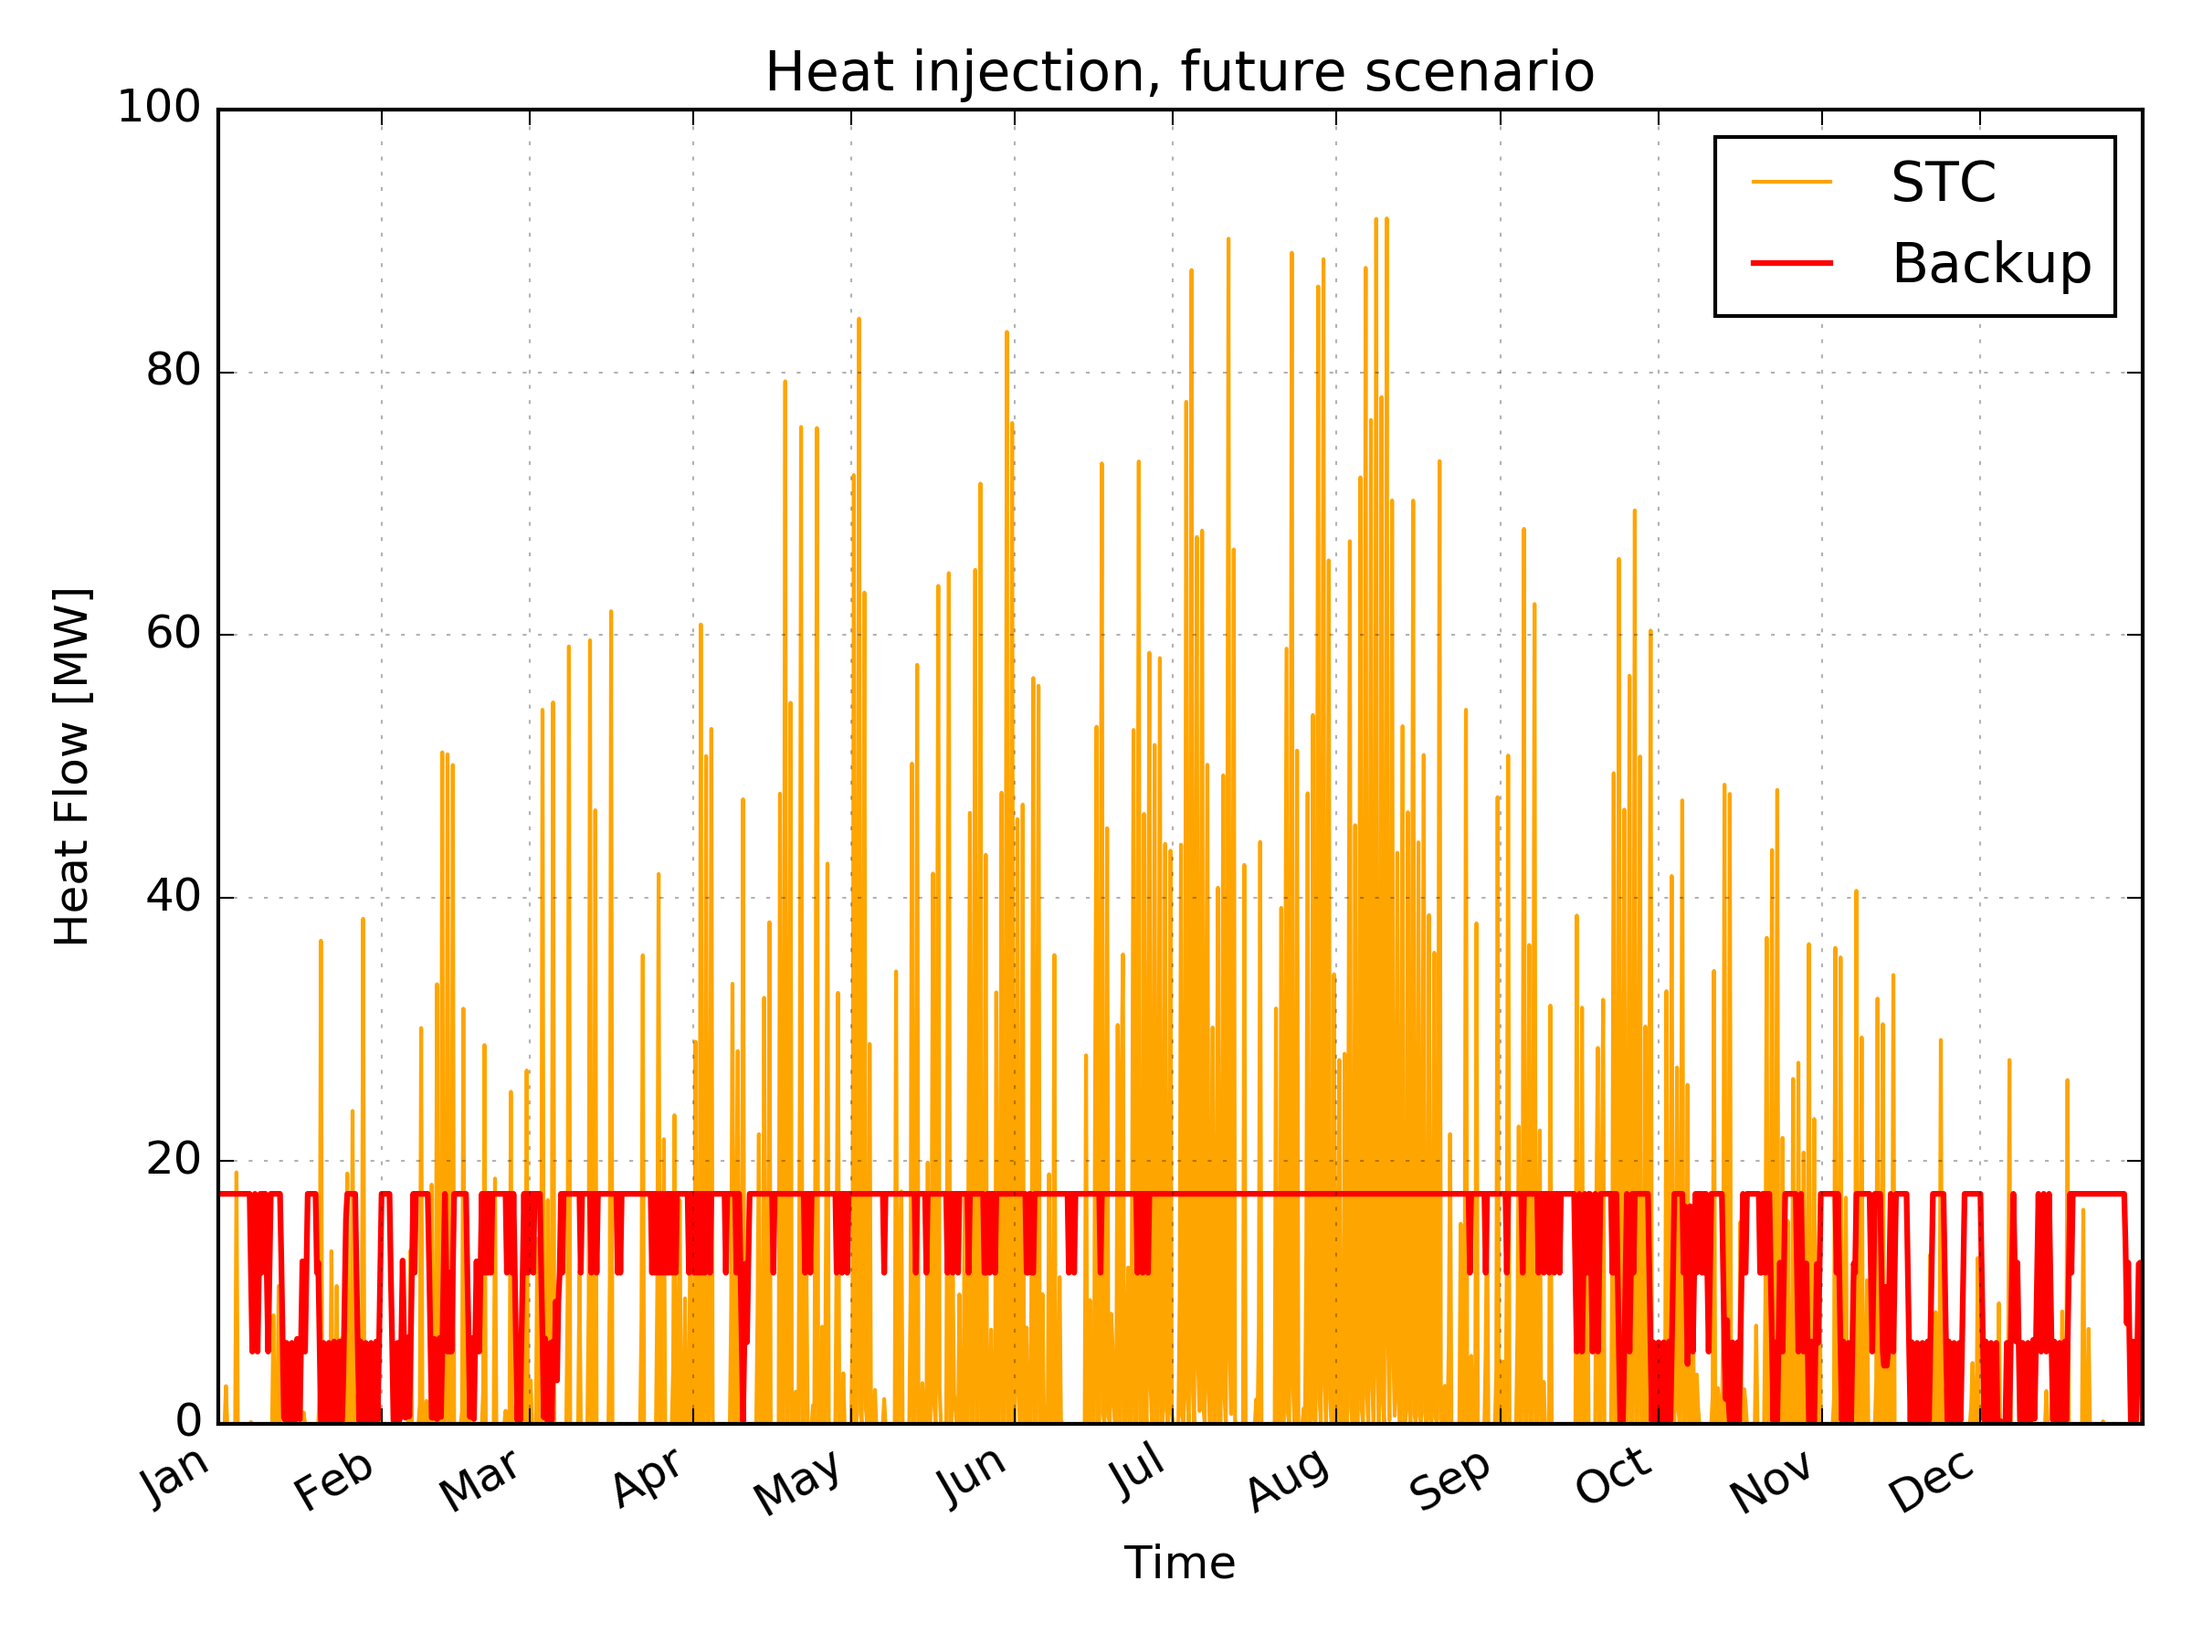
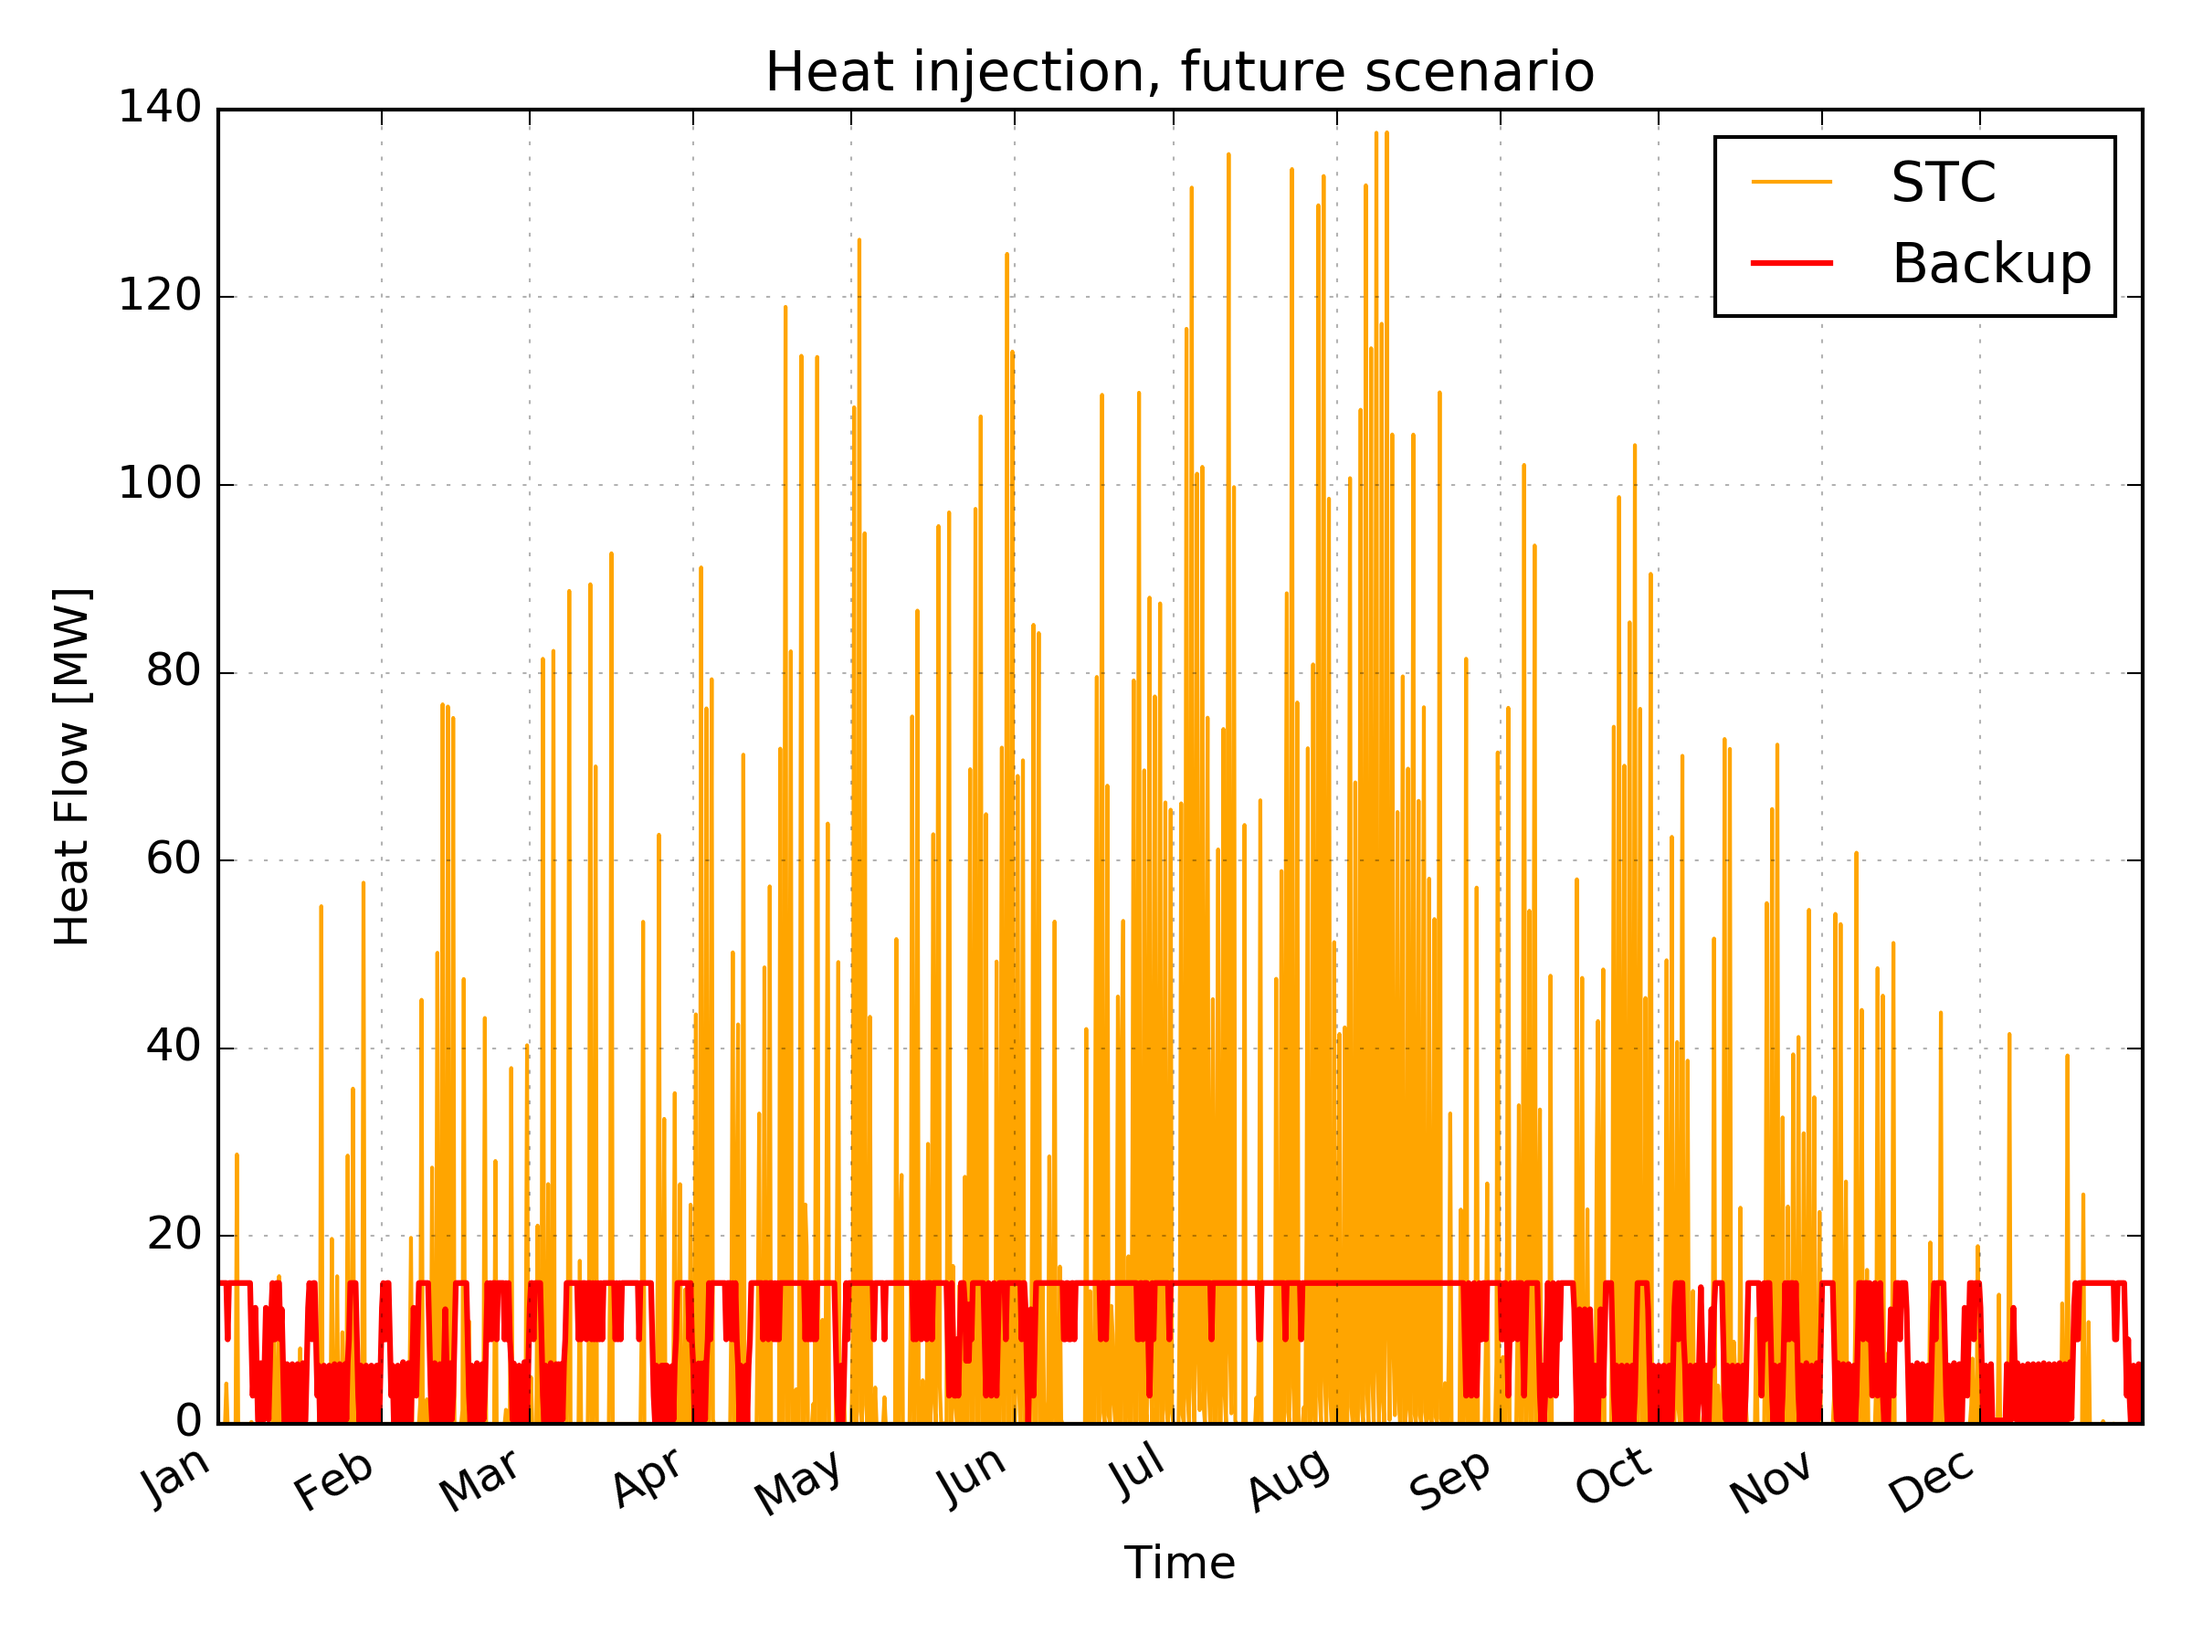
Finalize cases for first revision of SDH

diff --git a/misc/SDH_Conference_TestCases/CaseBase.py b/misc/SDH_Conference_TestCases/CaseBase.py
@@ -44,28 +44,20 @@ logger = logging.getLogger('SDH')
 def setup_opt():
     G = nx.DiGraph()
 
-    G.add_node('SolarArray', x=0, y=5000, z=0,
-               comps={'solar': 'SolarThermalCollector',
-                      'tank': 'StorageVariable'
-                      })
-
     G.add_node('WaterscheiGarden', x=0, y=0, z=0,
-               comps={'neighb': 'BuildingFixed',
-                      'tank': 'StorageVariable'})
+               comps={'neighb': 'BuildingFixed'})
 
     G.add_node('p1', x=1000, y=2400, z=0, comps={})
 
     G.add_node('p2', x=4000, y=2800, z=0, comps={})
 
     G.add_node('TermienWest', x=4200, z=0, y=4600,
-               comps={'neighb': 'BuildingFixed',
-                      'tank': 'StorageVariable'})
+               comps={'neighb': 'BuildingFixed'})
 
     G.add_node('Production', x=6000, y=4000, z=0, comps={'backup': 'ProducerVariable',
                                                          'tank': 'StorageVariable'})
     G.add_node('TermienEast', x=5400, y=200, z=0, comps={'neighb': 'BuildingFixed'})
 
-    G.add_edge('SolarArray', 'p1', name='servSol')
     G.add_edge('p1', 'WaterscheiGarden', name='servWat')
     G.add_edge('p1', 'p2', name='backBone')
     G.add_edge('p2', 'TermienWest', name='servTer')
@@ -176,9 +168,9 @@ def setup_opt():
                    'PEF': 1,
                    'CO2': 0.178,  # based on HHV of CH4 (kg/KWh CH4)
                    'fuel_cost': c_f,
-                   'Qmax': 15e6,
+                   'Qmax': 65e6,
                    'ramp_cost': 0.01,
-                   'ramp': 1e6 / 3600}
+                   'ramp': 120e6 / 3600}
 
     model.change_params(prod_design, 'Production', 'backup')
 
@@ -195,54 +187,6 @@ def setup_opt():
     model.change_params(prod_stor_design, node='Production', comp='tank')
     model.change_init_type('heat_stor', 'cyclic', node='Production', comp='tank')
 
-    # ### Storage Unit
-
-
-    stor_design = {
-        'Thi': 70 + 273.15,
-        'Tlo': 30 + 273.15,
-        'mflo_max': 1100,
-        'volume': 1500e3,
-        'ar': 1,
-        'dIns': 1,
-        'kIns': 0.024,
-        'heat_stor': 0
-    }
-
-    model.change_params(stor_design, node='SolarArray',
-                        comp='tank')
-    model.change_init_type('heat_stor', new_type='cyclic', comp='tank', node='SolarArray')
-
-    stor_design = {
-        'TermienWest':
-            {
-                'Thi': 70 + 273.15,
-                'Tlo': 30 + 273.15,
-                'mflo_max': 1100,
-                'volume': 200e3,
-                'ar': 1,
-                'dIns': 1,
-                'kIns': 0.024,
-                'heat_stor': 0
-            },
-        'WaterscheiGarden':
-            {
-                'Thi': 70 + 273.15,
-                'Tlo': 30 + 273.15,
-                'mflo_max': 1100,
-                'volume': 600e3,
-                'ar': 1,
-                'dIns': 1,
-                'kIns': 0.024,
-                'heat_stor': 0
-            }
-    }
-
-    for node in ['TermienWest', 'WaterscheiGarden']:
-        model.change_params(stor_design[node], node=node,
-                            comp='tank')
-        model.change_init_type('heat_stor', new_type='cyclic', comp='tank', node=node)
-
     # ### Pipes
 
     pipeDiam = {
@@ -250,23 +194,11 @@ def setup_opt():
         'servWat': 400,
         'servTer': 250,
         'servPro': 500,
-        'servSol': 500,
         'servBox': 250
     }
 
     for pipe, DN in pipeDiam.iteritems():
         model.change_param(node=None, comp=pipe, param='pipe_type', val=DN)
-
-    # ### Solar collector
-    solData = ut.read_time_data(datapath, name='RenewableProduction/SolarThermal.csv')
-
-    solParam = {
-        'delta_T': 40,
-        'heat_profile': solData['0_40'],
-        'area': 300000
-    }
-
-    model.change_params(solParam, node='SolarArray', comp='solar')
 
     model.compile()
     model.set_objective('cost')
@@ -276,7 +208,7 @@ def setup_opt():
 
 if __name__ == '__main__':
     optmodel = setup_opt()
-    optmodel.solve(tee=True, mipgap=0.001, solver='gurobi', probe=True, timelim=60)
+    optmodel.solve(tee=True, mipgap=0.001, solver='gurobi', probe=False, timelim=15)
 
     # ## Collecting results
 
@@ -302,18 +234,16 @@ if __name__ == '__main__':
     inputs = pd.DataFrame()
 
     inputs['Production'] = optmodel.get_result('heat_flow', node='Production', comp='backup')
-    inputs['Solar'] = optmodel.get_result('heat_flow', node='SolarArray', comp='solar')
 
     # Creating plots:
 
-    fig, ax = plt.subplots(1, 1, sharex=True)
+    fig, ax = plt.subplots(1, 1, sharex=True, figsize=(8, 3))
 
-    ax.plot(inputs['Solar']/1e6, label='STC', color='orange')
-    ax.plot(inputs['Production']/1e6, label='Backup', color='red', linewidth=1.5)
+    ax.plot(inputs['Production'] / 1e6, label='Backup', color='red', linewidth=1.5)
     ax.set_ylabel('Heat Flow [MW]')
     ax.legend(loc='best')
 
-    ax.set_title('Heat injection, future scenario')
+    ax.set_title('Heat injection, base scenario')
 
     ax.grid(linewidth=0.5, alpha=0.3)
 
@@ -322,36 +252,32 @@ if __name__ == '__main__':
     fig.autofmt_xdate()
 
     fig.tight_layout()
-    fig.savefig('img/Future/HeatInput.png', dpi=300)
+    fig.savefig('img/Base/HeatInput.png', dpi=300)
 
-    fig, ax = plt.subplots(1, 1)
-    df = optmodel.get_result('heat_flow_curt', node='SolarArray', comp='solar')
-    ax.plot(df)
+    # fig, ax = plt.subplots(1, 1)
+    # df = optmodel.get_result('heat_flow_curt', node='SolarArray', comp='solar')
+    # ax.plot(df)
     #
     # fig.autofmt_xdate()
 
 
     # Sum of heat flows
     prod_e = sum(inputs['Production'])
-    prod_s = sum(inputs['Solar'])
     waterschei_e = sum(heat_flows['WaterscheiGarden'])
     termieneast_e = sum(heat_flows['TermienEast'])
     termienwest_e = sum(heat_flows['TermienWest'])
 
     # Efficiency
-    print '\nNetwork efficiency', (termieneast_e + waterschei_e + termienwest_e) / (prod_e + prod_s) * 100, '%'
-
-    print sum(optmodel.get_result('heat_flow_max', node='SolarArray', comp='solar')) * 200000
-    print sum(optmodel.get_result('heat_flow', node='SolarArray', comp='solar'))
+    print '\nNetwork efficiency', (termieneast_e + waterschei_e + termienwest_e) / (prod_e) * 100, '%'
 
     fig, axs = plt.subplots(2, 1, sharex=True)
-    for pipe in ['backBone', 'servTer', 'servBox', 'servPro', 'servSol', 'servWat']:
+    for pipe in ['backBone', 'servTer', 'servBox', 'servPro', 'servWat']:
         print pipe
         axs[0].plot(optmodel.get_result('heat_loss_tot', comp=pipe), label=pipe)
         axs[1].plot(optmodel.get_result('mass_flow', comp=pipe), label=pipe)
     axs[1].legend()
 
-    for pipe in ['backBone', 'servTer', 'servBox', 'servPro', 'servSol', 'servWat']:
+    for pipe in ['backBone', 'servTer', 'servBox', 'servPro', 'servWat']:
         print pipe, str(round(sum(optmodel.get_result('heat_loss_tot', comp=pipe)) / 1e6, 2)), 'MWh'
     fig.autofmt_xdate()
 
@@ -392,27 +318,23 @@ if __name__ == '__main__':
     stor = pd.DataFrame()
     soc = pd.DataFrame()
 
-    for node in ['SolarArray', 'TermienWest', 'WaterscheiGarden', 'Production']:
+    for node in ['Production']:
         stor[node] = optmodel.get_result('heat_stor', state=True, node=node, comp='tank')
         soc[node] = optmodel.get_result('soc', state=True, node=node, comp='tank')
 
     fig, axs = plt.subplots(2, 1, sharex=True)
 
     ls = {
-        'SolarArray': 'r--',
         'TermienWest': 'b-.',
         'WaterscheiGarden': 'g'
     }
 
-    for node in ['SolarArray', 'TermienWest', 'WaterscheiGarden']:
-        axs[0].plot(stor[node]/1e6, ls[node], label=node, linewidth=1.5)
-        axs[1].plot(soc[node], ls[node], linewidth=1.5)
-    axs[0].plot(stor['Production']/1e6, ls=':', color='black')
-    axs[0].legend(['STC Node', 'Termien W', 'Waterschei GC', 'Production'], loc='best', ncol=2)
+    axs[0].plot(stor['Production'] / 1e6, color='black')
+    axs[0].legend(['Production'], loc='best', ncol=2)
     axs[0].set_title('Stored energy')
     axs[0].set_ylabel('Energy [GWh]')
 
-    axs[1].plot(soc['Production'], ls=':', color='black', lw=0.5)
+    axs[1].plot(soc['Production'], color='black', lw=0.5)
     axs[1].set_title('State of charge')
     axs[1].set_ylabel('SoC [%]')
     axs[1].set_ylim(0, 100)
@@ -425,7 +347,6 @@ if __name__ == '__main__':
 
     fig.tight_layout()
 
-
-    fig.savefig('img/Future/StoragePlot.png', dpi=300)
+    # fig.savefig('img/Future/StoragePlot.png', dpi=300)
 
     plt.show()
